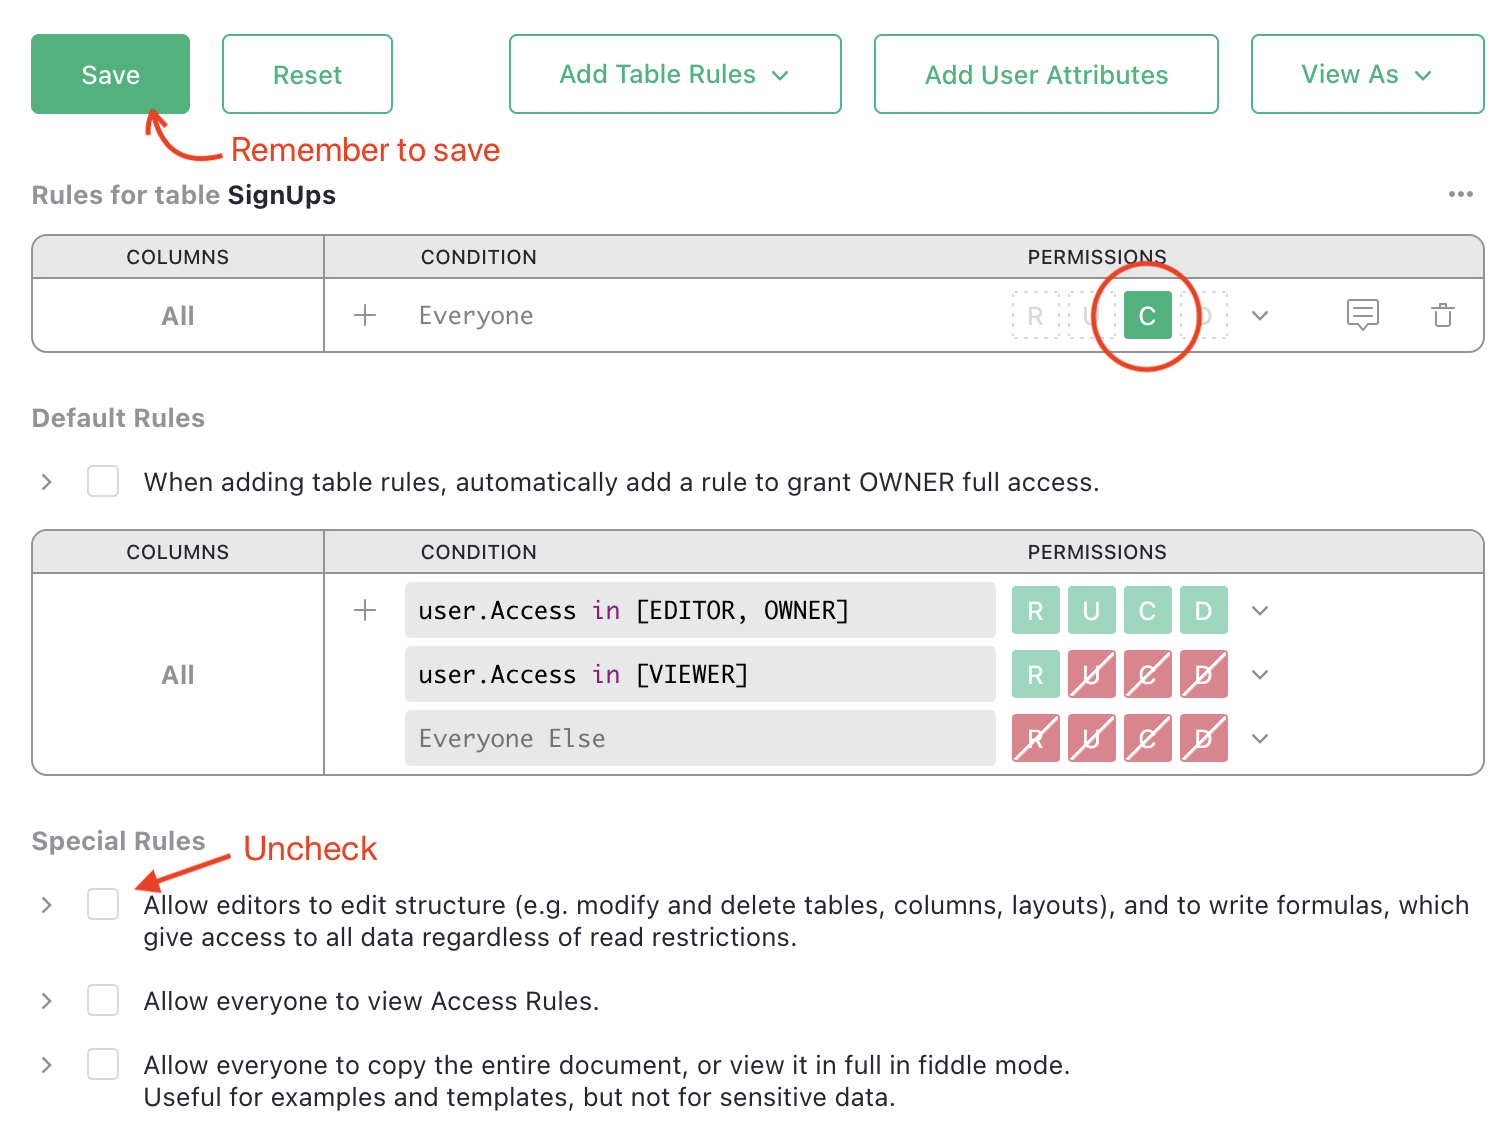
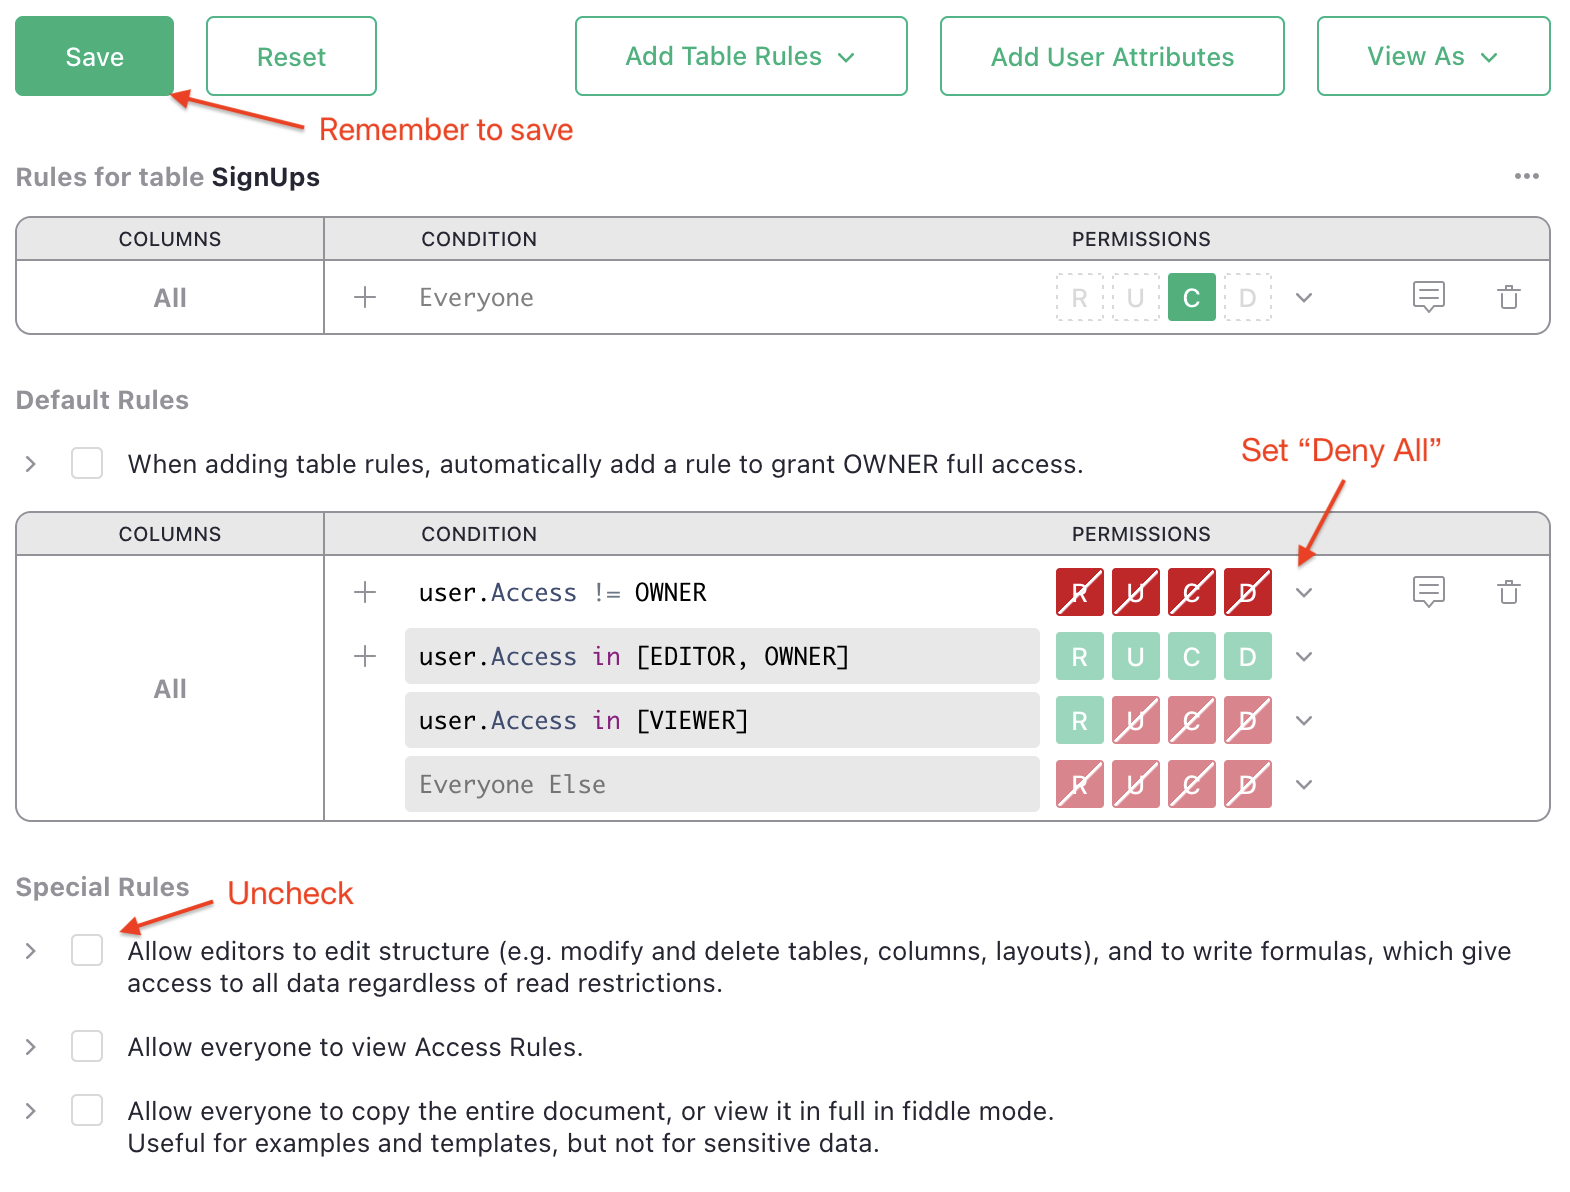
The previous edit omitted an important restruction in Access Rules. (#2)
The edit to remove the SchemaEdit bit and simplify it to use a checkbox omitted the important restriction of other permissions that are granted by default to non-owners. This brings back that step.

Also adds a warning on top of the README in the hopes of attracting attention of anyone who might be affected.

Fix tests by force-installing an older chrome version that works with mocha-webdriver.

diff --git a/README.md b/README.md
@@ -4,6 +4,11 @@
 
 > Scripts to turn form submissions on webpages into new records in Grist documents.
 
+## :warning: Warning
+If you followed the instructions between June and August 2023, they had an omission that gave visitors too much access. Be sure that [this step](#default-rules) is included.
+
+## Summary
+
 This repo contains tools to make it easy to submit forms as new records added to
 [Grist](https://www.getgrist.com) documents.
 
@@ -55,7 +60,11 @@ This part of the instructions is the same for all of the methods.
    2. In the "Special Rules" section, uncheck the box "Allow editors to edit structure".
       The red warning below the checkbox should disappear.
 
-   3. Click "Add Table Rules" and select your table to hold submissions. Keep the default empty
+   3. <a id="default-rules"></a>
+      In the "Default Rules" section, add a rule with condition `user.Access != OWNER`, and
+      permission "Deny All" (it should show as all 4 red boxes).
+
+   4. Click "Add Table Rules" and select your table to hold submissions. Keep the default empty
       condition (which means "Everyone"), and click the "Create" permission (`C`) twice to make it green
       (i.e. allowed).
 
@@ -65,7 +74,7 @@ This part of the instructions is the same for all of the methods.
 
       Remember to click "Save" to save the rules.
 
-   4. Now open the Share menu, and click "Manage Users".
+   5. Now open the Share menu, and click "Manage Users".
       Turn [Public access](https://support.getgrist.com/sharing/#public-access-and-link-sharing)
       to "On", and
       set Public Access role to `Editor`. Your screen should look like this:
